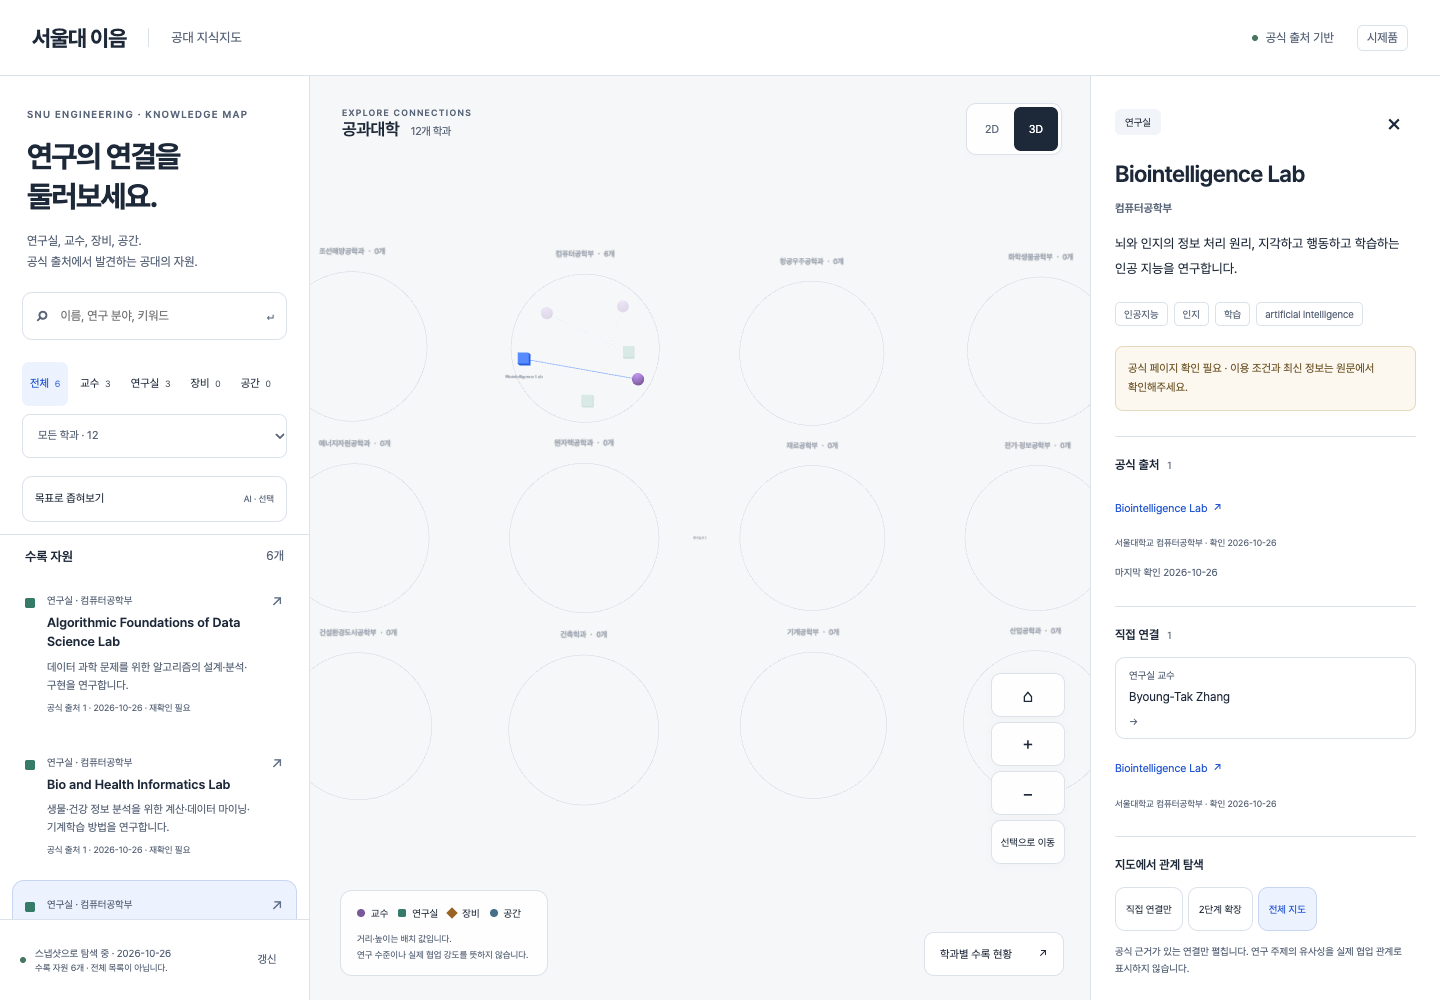
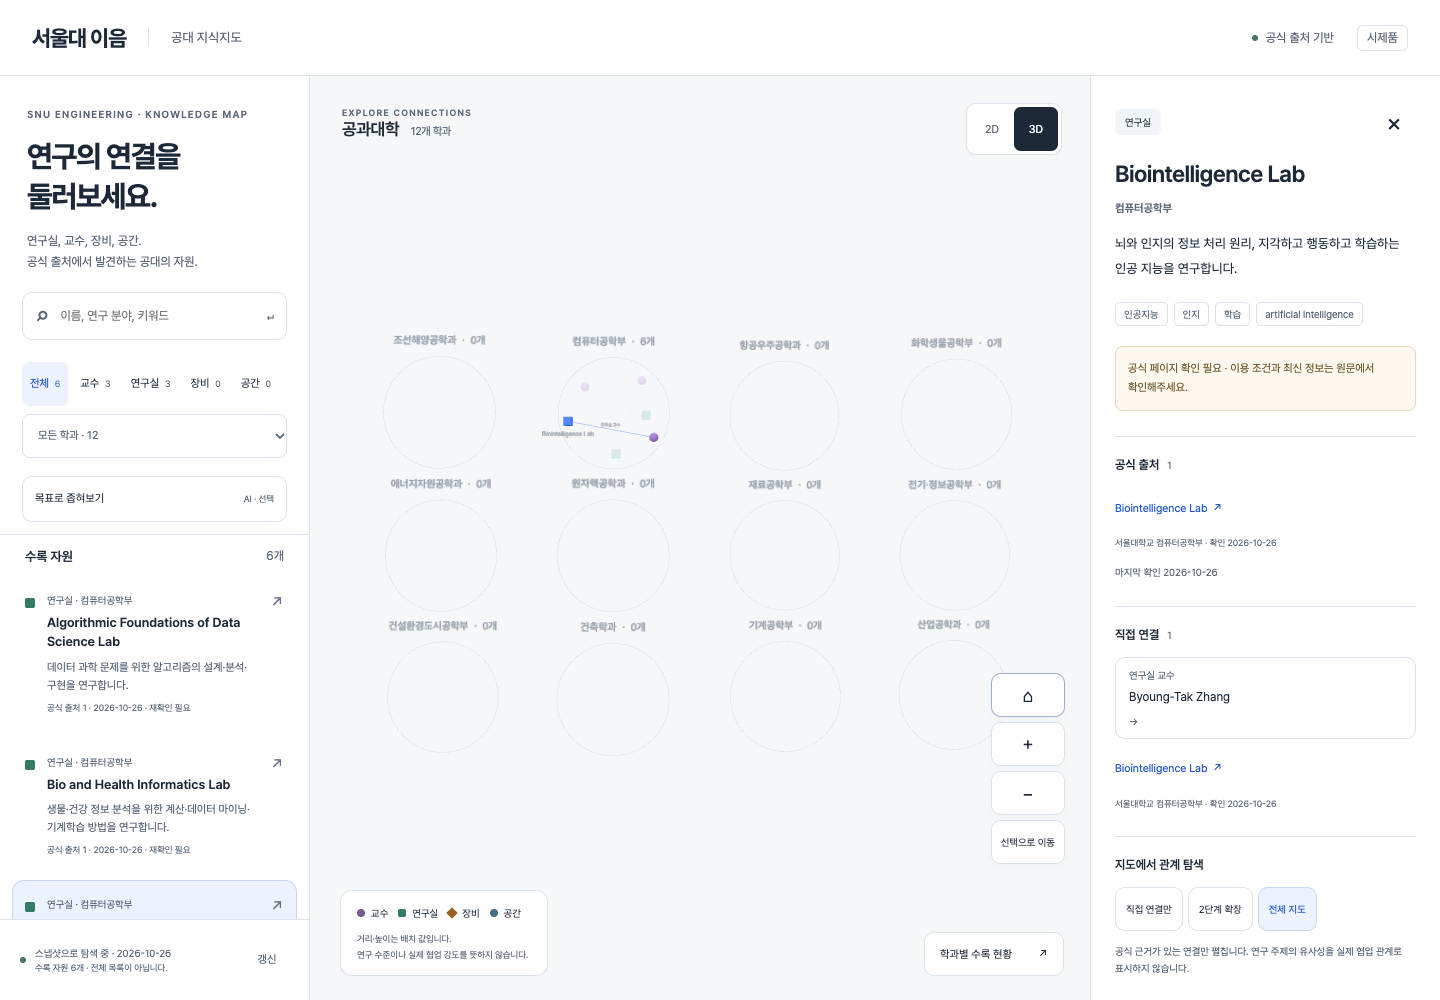
fix: keep mobile graph selection clear of sheets and controls (#20)
Closes #20

diff --git a/apps/web/src/Map3D.tsx b/apps/web/src/Map3D.tsx
@@ -1,11 +1,11 @@
 import { useEffect, useMemo, useRef } from 'react';
 import ForceGraph3D, { type ForceGraphMethods } from 'react-force-graph-3d';
-import { BoxGeometry, CanvasTexture, CylinderGeometry, DoubleSide, Group, Mesh, MeshStandardMaterial, MeshBasicMaterial, OctahedronGeometry, RingGeometry, SphereGeometry, Sprite, SpriteMaterial, AmbientLight, DirectionalLight, Vector3, type BufferGeometry } from 'three';
+import { BoxGeometry, CanvasTexture, CylinderGeometry, DoubleSide, Group, Mesh, MeshStandardMaterial, MeshBasicMaterial, OctahedronGeometry, RingGeometry, SphereGeometry, Sprite, SpriteMaterial, AmbientLight, DirectionalLight, PerspectiveCamera, Vector3, type BufferGeometry } from 'three';
 import { colors, endpointId, escapeHtml, related, type DisplayNode, type DisplayEdge, type ViewProps } from './map-model';
 function label(text: string) {
   const canvas = document.createElement('canvas'); canvas.width = 1024; canvas.height = 100;
-  const ctx = canvas.getContext('2d')!; ctx.font = '500 36px sans-serif'; ctx.fillStyle = '#46566d'; ctx.textAlign = 'center'; ctx.fillText(text, 512, 60);
-  const texture = new CanvasTexture(canvas); const sprite = new Sprite(new SpriteMaterial({ map: texture, transparent: true, depthWrite: false })); sprite.scale.set(210, 21, 1); return sprite;
+  const ctx = canvas.getContext('2d')!; ctx.font = '500 44px sans-serif'; ctx.fillStyle = '#46566d'; ctx.textAlign = 'center'; ctx.fillText(text, 512, 60);
+  const texture = new CanvasTexture(canvas); const sprite = new Sprite(new SpriteMaterial({ map: texture, transparent: true, depthWrite: false })); sprite.scale.set(320, 31.25, 1); return sprite;
 }
 export default function Map3D(p: ViewProps) {
   const ref = useRef<ForceGraphMethods<DisplayNode, DisplayEdge> | undefined>(undefined);
@@ -17,7 +17,7 @@ export default function Map3D(p: ViewProps) {
       const group = new Group();
       if (n.kind === 'department') {
         group.add(new Mesh(new RingGeometry(74, 74.5, 64), new MeshBasicMaterial({ color: '#c7d0dc', side: DoubleSide, transparent: true, opacity: .8 })));
-        const text = label(`${n.name}  ·  ${n.count}개`); text.position.y = 94; group.add(text);
+        const text = label(`${n.name}  ·  ${n.count}개`); text.position.y = 94; text.visible = !p.focusSelection; group.add(text);
       } else {
         const emphasis = n.id === p.selected || (p.searching && p.highlighted.has(n.id));
         let geometry: BufferGeometry = new SphereGeometry(6, 20, 16);
@@ -30,7 +30,7 @@ export default function Map3D(p: ViewProps) {
       map.set(n.id, group);
     }
     return map;
-  }, [p.nodes, p.selected, p.searching, p.highlighted, neighbors]);
+  }, [p.nodes, p.selected, p.searching, p.highlighted, neighbors, p.focusSelection]);
   const edgeObjects = useMemo(() => new Map(p.links.filter(e => p.selected && (endpointId(e.source) === p.selected || endpointId(e.target) === p.selected)).map(e => {
     const text = label(e.label); text.scale.multiplyScalar(.4); text.material.depthTest = false;
     return [e.id, text] as const;
@@ -43,15 +43,24 @@ export default function Map3D(p: ViewProps) {
     }
   }); }, [objects, edgeObjects]);
   useEffect(() => {
-    const home = () => ref.current?.zoomToFit(p.reducedMotion ? 0 : 500, 100);
-    p.onReady({ home, zoom: factor => { const graph = ref.current; if (!graph) return; const position = graph.camera().position; graph.cameraPosition({ x: position.x / factor, y: position.y / factor, z: position.z / factor }, undefined, p.reducedMotion ? 0 : 250); }, focus: id => { const n = p.nodes.find(n => n.id === id); if (n) ref.current?.cameraPosition({ x: n.fx, y: n.fy, z: n.fz + 230 }, { x: n.fx, y: n.fy, z: n.fz }, p.reducedMotion ? 0 : 450); } });
+    const home = () => {
+      const graph = ref.current; if (!graph || !p.nodes.length) return;
+      const xs = p.nodes.map(n => n.fx), ys = p.nodes.map(n => n.fy);
+      const centerX = (Math.min(...xs) + Math.max(...xs)) / 2, centerY = (Math.min(...ys) + Math.max(...ys)) / 2;
+      const camera = graph.camera(); const fov = camera instanceof PerspectiveCamera ? camera.fov : 50;
+      const tangent = Math.tan(fov * Math.PI / 360), aspect = p.width / Math.max(1, p.height);
+      const distance = Math.max((Math.max(...xs)-Math.min(...xs)+240)/(2*tangent*aspect), (Math.max(...ys)-Math.min(...ys)+240)/(2*tangent));
+      graph.cameraPosition({x:centerX,y:centerY,z:Math.max(...p.nodes.map(n => n.fz))+distance*1.1}, {x:centerX,y:centerY,z:0}, p.reducedMotion ? 0 : 500);
+    };
+    const handle = { home, zoom: (factor: number) => { const graph = ref.current; if (!graph) return; const position = graph.camera().position; graph.cameraPosition({ x: position.x / factor, y: position.y / factor, z: position.z / factor }, undefined, p.reducedMotion ? 0 : 250); }, focus: (id: string) => { const n = p.nodes.find(n => n.id === id); if (n) ref.current?.cameraPosition({ x: n.fx, y: n.fy, z: n.fz + 230 }, { x: n.fx, y: n.fy, z: n.fz }, p.reducedMotion ? 0 : 450); } };
+    p.onReady(handle);
     const graph = ref.current;
     if (graph) { const scene = graph.scene(); const ambient = new AmbientLight(0xffffff, 2); const light = new DirectionalLight(0xffffff, 3); light.position.set(-200, 400, 700); scene.add(ambient, light);
       const canvas = graph.renderer().domElement; const onLoss = (event: Event) => { event.preventDefault(); p.onFailure(); }; canvas.addEventListener('webglcontextlost', onLoss);
-      const timer = setTimeout(home, 80);
+      const timer = setTimeout(() => p.focusSelection && p.selected && p.nodes.some(n => n.id === p.selected) ? handle.focus(p.selected) : home(), 80);
       return () => { clearTimeout(timer); canvas.removeEventListener('webglcontextlost', onLoss); scene.remove(ambient, light); };
     }
-  }, [p.nodes, p.reducedMotion, p.onReady, p.onFailure]);
+  }, [p.nodes, p.width, p.height, p.reducedMotion, p.onReady, p.onFailure, p.selected, p.focusSelection]);
   useEffect(() => {
     const graph = ref.current; if (!graph) return;
     const controls = graph.controls() as { addEventListener(type: 'change', listener: () => void): void; removeEventListener(type: 'change', listener: () => void): void };
@@ -66,5 +75,5 @@ export default function Map3D(p: ViewProps) {
     controls.addEventListener('change', update); update();
     return () => controls.removeEventListener('change', update);
   }, [objects, p.nodes, p.selected, p.searching, p.highlighted]);
-  return <ForceGraph3D<DisplayNode, DisplayEdge> ref={ref} graphData={graphData} width={p.width} height={p.height} backgroundColor="#f6f7f9" showNavInfo={false} nodeThreeObject={n => objects.get(n.id)!} nodeLabel={n => escapeHtml(n.name)} linkLabel={e => escapeHtml(e.label)} linkColor={e => p.selected && (endpointId(e.source) === p.selected || endpointId(e.target) === p.selected) ? '#2458d3' : '#b7c2d1'} linkOpacity={.5} linkWidth={.8} linkThreeObjectExtend linkThreeObject={e => edgeObjects.get(e.id)!} onNodeClick={n => n.kind !== 'department' && p.onSelect(n.id)} enableNodeDrag={false} cooldownTicks={0} />;
+  return <ForceGraph3D<DisplayNode, DisplayEdge> ref={ref} graphData={graphData} width={p.width} height={p.height} backgroundColor="#f6f7f9" showNavInfo={false} nodeThreeObject={n => objects.get(n.id)!} nodeLabel={n => escapeHtml(n.name)} linkLabel={e => escapeHtml(e.label)} linkColor={e => p.selected && (endpointId(e.source) === p.selected || endpointId(e.target) === p.selected) ? '#2458d3' : '#b7c2d1'} linkOpacity={.5} linkWidth={.8} linkThreeObjectExtend linkThreeObject={e => edgeObjects.get(e.id)!} linkPositionUpdate={(object, {start, end}) => { if (object) object.position.set((start.x+end.x)/2, (start.y+end.y)/2+5, (start.z+end.z)/2); return true; }} onNodeClick={n => n.kind !== 'department' && p.onSelect(n.id)} enableNodeDrag={false} cooldownTicks={0} />;
 }

diff --git a/apps/web/src/Map.tsx b/apps/web/src/Map.tsx
@@ -12,14 +12,17 @@ class MapBoundary extends Component<{ children: ReactNode; onFailure(): void }, 
 export default function Map({ graph, departments, view, selected, highlighted, searching, onSelect, onFallback }: { graph: Graph; departments: Department[]; view: '2d' | '3d'; selected?: string; highlighted: Set<string>; searching: boolean; onSelect(id: string): void; onFallback(): void }) {
   const container = useRef<HTMLDivElement>(null); const handle = useRef<MapHandle | null>(null);
   const [size, setSize] = useState({ width: 800, height: 600 });
+  const [mobile, setMobile] = useState(() => matchMedia('(max-width:900px)').matches);
   const [reduced, setReduced] = useState(() => matchMedia('(prefers-reduced-motion: reduce)').matches);
   const data = useMemo(() => model(graph, departments), [graph, departments]);
   useEffect(() => { const observer = new ResizeObserver(([entry]) => setSize({ width: entry.contentRect.width, height: entry.contentRect.height })); if (container.current) observer.observe(container.current); return () => observer.disconnect(); }, []);
   useEffect(() => { const media = matchMedia('(prefers-reduced-motion: reduce)'); const listener = () => setReduced(media.matches); media.addEventListener('change', listener); return () => media.removeEventListener('change', listener); }, []);
+  useEffect(() => { const media = matchMedia('(max-width:900px)'); const listener = () => setMobile(media.matches); media.addEventListener('change', listener); return () => media.removeEventListener('change', listener); }, []);
+  const visibleHeight = mobile && selected ? Math.max(200, Math.floor(size.height * .42)) : size.height;
   const onReady = useCallback((value: MapHandle) => { handle.current = value; }, []);
   const View = view === '3d' ? ThreeD : TwoD;
   return <div className="map-stage" ref={container} data-testid="map-stage" aria-label={`${view.toUpperCase()} 지식지도. 자원 목록에서도 같은 항목을 선택할 수 있습니다.`}>
-    <MapBoundary key={view} onFailure={onFallback}><Suspense fallback={<div className="map-loading" role="status">관계망을 준비하고 있습니다…</div>}><View {...data} {...size} selected={selected} highlighted={highlighted} searching={searching} reducedMotion={reduced} onSelect={onSelect} onReady={onReady} onFailure={onFallback} /></Suspense></MapBoundary>
+    <MapBoundary key={view} onFailure={onFallback}><Suspense fallback={<div className="map-loading" role="status">관계망을 준비하고 있습니다…</div>}><View {...data} width={size.width} height={visibleHeight} focusSelection={mobile && Boolean(selected)} selected={selected} highlighted={highlighted} searching={searching} reducedMotion={reduced} onSelect={onSelect} onReady={onReady} onFailure={onFallback} /></Suspense></MapBoundary>
     <div className="map-controls" aria-label="지도 조작"><button onClick={() => handle.current?.home()} aria-label="처음 보기">⌂</button><button onClick={() => handle.current?.zoom(1.3)} aria-label="확대">＋</button><button onClick={() => handle.current?.zoom(.77)} aria-label="축소">−</button><button disabled={!selected} onClick={() => selected && handle.current?.focus(selected)}>선택으로 이동</button></div>
   </div>;
 }

diff --git a/apps/web/src/Map2D.tsx b/apps/web/src/Map2D.tsx
@@ -7,17 +7,21 @@ export default function Map2D(p: ViewProps) {
   const neighbors = useMemo(() => related(p.nodes, p.links, p.selected), [p.nodes, p.links, p.selected]);
   useEffect(() => {
     const home = () => ref.current?.zoomToFit(p.reducedMotion ? 0 : 400, 75);
-    p.onReady({ home, zoom: f => { const graph = ref.current; if (graph) graph.zoom(graph.zoom() * f, p.reducedMotion ? 0 : 250); }, focus: id => { const n = p.nodes.find(n => n.id === id); if (n) { ref.current?.centerAt(n.fx, n.fy, p.reducedMotion ? 0 : 350); ref.current?.zoom(2, p.reducedMotion ? 0 : 350); } } });
-    const timer = setTimeout(home, 80); return () => clearTimeout(timer);
-  }, [p.nodes, p.width, p.height, p.reducedMotion, p.onReady]);
+    const handle = { home, zoom: (f: number) => { const graph = ref.current; if (graph) graph.zoom(graph.zoom() * f, p.reducedMotion ? 0 : 250); }, focus: (id: string) => { const n = p.nodes.find(n => n.id === id); if (n) { ref.current?.centerAt(n.fx, n.fy, p.reducedMotion ? 0 : 350); ref.current?.zoom(p.width < 650 ? 1.25 : 2, p.reducedMotion ? 0 : 350); } } };
+    p.onReady(handle);
+    const timer = setTimeout(() => p.focusSelection && p.selected && p.nodes.some(n => n.id === p.selected) ? handle.focus(p.selected) : home(), 80); return () => clearTimeout(timer);
+  }, [p.nodes, p.width, p.height, p.reducedMotion, p.onReady, p.selected, p.focusSelection]);
   const draw = (n: DisplayNode, ctx: CanvasRenderingContext2D, scale: number) => {
     const x = n.x ?? n.fx, y = n.y ?? n.fy;
     ctx.save();
     if (n.kind === 'department') {
       ctx.strokeStyle = '#d9dfe8'; ctx.lineWidth = 1 / scale; ctx.setLineDash([3 / scale, 5 / scale]);
       ctx.beginPath(); ctx.arc(x, y, 76, 0, Math.PI * 2); ctx.stroke(); ctx.setLineDash([]);
-      ctx.fillStyle = '#596578'; ctx.font = `500 ${Math.max(10, 12 / scale)}px sans-serif`; ctx.textAlign = 'center';
-      ctx.fillText(n.name, x, y - 91); ctx.font = `${Math.max(8, 10 / scale)}px sans-serif`; ctx.fillStyle = '#768294'; ctx.fillText(`${n.count}개 수록`, x, y - 77);
+      if (p.focusSelection) { ctx.restore(); return; }
+      const compact = p.width < 650 && scale < .8;
+      const name = compact ? n.name.replace(/공학(과|부)$|학(과|부)$/g, '').slice(0, 6) : n.name;
+      ctx.fillStyle = '#596578'; ctx.font = `500 ${(compact ? 9 : 12) / scale}px sans-serif`; ctx.textAlign = 'center';
+      ctx.fillText(name, x, y - 91); ctx.font = `${Math.max(8, 10 / scale)}px sans-serif`; ctx.fillStyle = '#768294'; ctx.fillText(`${n.count}개 수록`, x, y - 77);
       ctx.restore(); return;
     }
     const selected = n.id === p.selected;

diff --git a/apps/web/src/styles.css b/apps/web/src/styles.css
@@ -13,3 +13,6 @@
 .ai-panel{margin:0 22px 12px;border:1px solid var(--line);border-radius:10px;flex-shrink:0}.ai-panel summary{min-height:44px;padding:0 12px;display:flex;align-items:center;justify-content:space-between;cursor:pointer;font-size:11px}.ai-panel summary>span{font-size:9px;color:var(--muted)}.ai-content{padding:0 12px 12px;max-height:45dvh;overflow:auto}.ai-content>p{font-size:10px;line-height:1.8;color:var(--muted)}.ai-content>label,.goal-profile label{font-size:11px;display:block;margin:13px 0 7px;line-height:1.7}.ai-content textarea{display:block;width:100%;min-height:90px;padding:10px;border:1px solid var(--line);border-radius:8px;resize:vertical;font-size:11px;line-height:1.7;margin-bottom:10px}.ai-content .consent{display:flex;align-items:center;gap:8px;min-height:44px}.consent input{min-width:20px;min-height:20px;accent-color:var(--blue)}.goal-profile{margin-top:18px}.goal-profile h3{font-size:12px}.goal-profile p{font-size:10px;color:var(--muted)}.goal-profile label input{display:block;width:100%;min-height:44px;border:1px solid var(--line);border-radius:8px;padding:0 10px;font-size:11px}.card-reason{font-size:10px;color:var(--blue);line-height:1.7}
 
 .wordmark{min-height:44px;display:inline-flex;align-items:center}.search-panel{overflow-y:auto}@media(max-width:900px){.search-panel.mobile-open{overflow-y:auto}}
+
+@media(max-width:900px){.has-detail .map-controls{flex-direction:row;justify-content:flex-end;left:16px;right:16px;bottom:calc(53dvh + 14px);gap:5px}.has-detail .map-controls button:last-child{min-width:84px;max-width:none}}
+@media(max-width:430px){.has-detail .map-controls{bottom:calc(55dvh + 14px)}}

diff --git a/apps/web/src/map-model.ts b/apps/web/src/map-model.ts
@@ -2,7 +2,7 @@ import type { Department, Graph, GraphNode } from '@ieum/contracts';
 export type DisplayNode = { id: string; name: string; kind: GraphNode['kind'] | 'department'; departmentId: string; count?: number; fx: number; fy: number; fz: number; x?: number; y?: number; z?: number };
 export type DisplayEdge = { id: string; source: string | DisplayNode; target: string | DisplayNode; label: string };
 export type MapHandle = { home(): void; zoom(factor: number): void; focus(id: string): void };
-export type ViewProps = { nodes: DisplayNode[]; links: DisplayEdge[]; width: number; height: number; selected?: string; highlighted: Set<string>; searching: boolean; reducedMotion: boolean; onSelect(id: string): void; onReady(handle: MapHandle): void; onFailure(): void };
+export type ViewProps = { nodes: DisplayNode[]; links: DisplayEdge[]; width: number; height: number; selected?: string; highlighted: Set<string>; searching: boolean; focusSelection: boolean; reducedMotion: boolean; onSelect(id: string): void; onReady(handle: MapHandle): void; onFailure(): void };
 export const colors: Record<DisplayNode['kind'], string> = { department: '#8d98a8', researcher: '#795a99', lab: '#367b68', equipment: '#986324', space: '#456e8a', paper: '#757b85', thesis: '#757b85' };
 export const endpointId = (value: string | DisplayNode) => typeof value === 'string' ? value : value.id;
 export const escapeHtml = (text: string) => text.replace(/[&<>"']/g, character => ({ '&': '&amp;', '<': '&lt;', '>': '&gt;', '"': '&quot;', "'": '&#39;' })[character]!);

diff --git a/apps/web/e2e/explore.spec.ts b/apps/web/e2e/explore.spec.ts
@@ -36,6 +36,11 @@ test('mobile defaults to 2D with an accessible list and bottom detail sheet', as
   await page.locator('.resource-card').first().focus();
   await page.keyboard.press('Enter');
   await expect(page.getByLabel('선택 자원 상세')).toBeVisible();
+  const mapBox = await page.locator('.map-stage canvas').boundingBox();
+  const viewBox = await page.getByRole('button', {name:'2D',exact:true}).boundingBox();
+  const controlsBox = await page.getByRole('button', {name:'처음 보기',exact:true}).boundingBox();
+  expect(controlsBox!.y).toBeGreaterThanOrEqual(viewBox!.y + viewBox!.height);
+  expect(mapBox!.height).toBeLessThan(400);
   const box = await page.getByLabel('선택 자원 상세').boundingBox();
   expect(box!.y).toBeGreaterThan(300); expect(box!.width).toBeLessThanOrEqual(390);
   const overflow = await page.evaluate(() => document.documentElement.scrollWidth > innerWidth);

diff --git a/review/VALIDATION.md b/review/VALIDATION.md
@@ -4,7 +4,7 @@
 
 실행 가능한 첫 출시 기반과 시제품 코드를 구현했다. **첫 출시 완료는 아니다.** 공용 파일은 처음 `review/shared/`와 `foundation.patch`의 검증된 변경안으로 준비했다. 이후 사용자가 이번 작업의 직접 반영 예외를 명시적으로 승인해 실제 경로에 적용했다. 초기 검토본은 기록으로 남긴다. 일반 협업 규칙은 변경하지 않았다.
 
-독립 작업공간 `/tmp/ieum-final-verified`에 현재 앱과 공용 제안을 조립하고, Node.js 24.22.1에서 새 `npm ci`로 검증했다. 원본 저장소의 `.serena/`는 기존 미추적 파일로 남겨두었다.
+독립 작업공간 `/tmp/ieum-final-verified`에 앱과 공용 제안을 조립하고, Node.js 24.22.1에서 새 `npm ci`로 검증했다. 사용자 예외 승인으로 반영한 뒤 저장소 루트에서도 설치·타입·단위·DB·빌드를 통과했다. 모바일 지도 결함 수정은 루트의 Playwright 흐름으로 다시 확인했다. 원본 저장소의 `.serena/`는 기존 미추적 파일로 남겨두었다.
 
 ## 통과한 검사
 
@@ -21,7 +21,7 @@
 | CI·Pages workflow | YAML 파싱 통과; 실제 GitHub 실행은 미수행 |
 | 백업·복구 shell | shellcheck 통과 |
 | 개발 API 실기동 | `/health`, `/v1/catalog`, `/v1/graph` 200 |
-| 공용 패치 | `git apply --check review/foundation.patch` 성공 |
+| 공용 패치 | 반영 전 apply check, 반영 후 reverse check 성공 |
 | 출시 게이트 | 미승인·수량 미달·검증 미완료 시 의도대로 실패 |
 
 브라우저는 설치된 Chrome을 `PLAYWRIGHT_CHANNEL=chrome`으로 사용했다. CI에서는 Playwright Chromium을 설치하도록 준비했다. iab가 제공되지 않아 Chrome으로 화면을 확인했다.
@@ -46,7 +46,7 @@ pg_dump custom format → DB+원문 tar → 임시 GPG 키로 암호화
 
 ## 빌드 특성
 
-지도를 2D/3D별로 지연 로딩한다. 이번 빌드는 첫 JS 약 409KB(gzip 127KB), 2D 약 92KB(gzip 31KB), 3D 약 1.29MB(gzip 341KB)다. 이는 빌드 크기이며 실제 사용자 성능 달성을 뜻하지 않는다.
+지도를 2D/3D별로 지연 로딩한다. 이번 빌드는 첫 JS 약 410KB(gzip 127KB), 2D 약 92KB(gzip 31KB), 3D 약 1.29MB(gzip 341KB)다. 이는 빌드 크기이며 실제 사용자 성능 달성을 뜻하지 않는다.
 
 ## 남은 출시 조건
 
